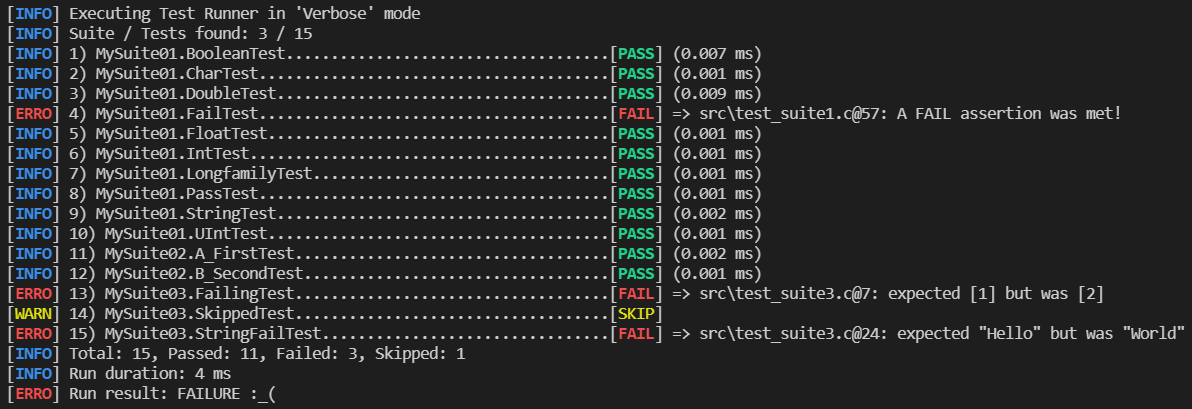
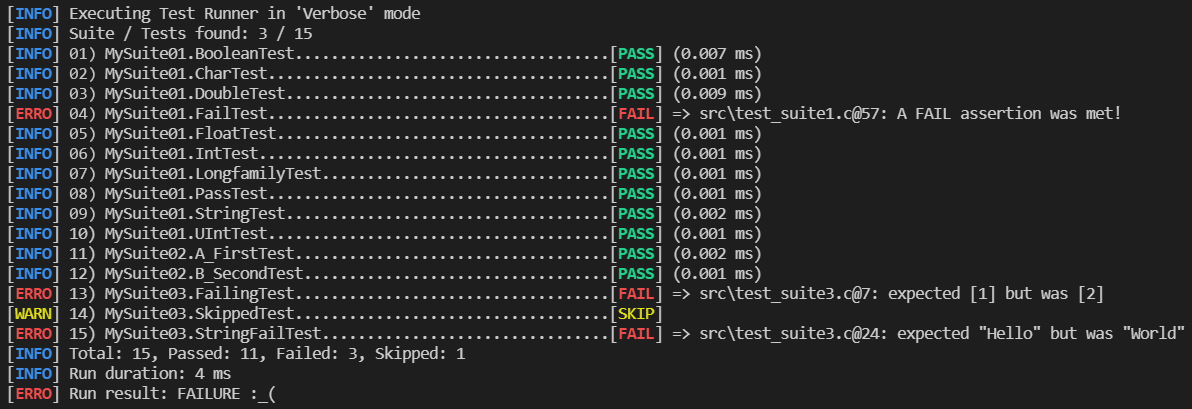
Align test counter
Fix #42

Updated screenshot

Changed region(s): [[0.0621, 0.1174, 0.2794, 0.5575]]

diff --git a/clove-unit.h b/clove-unit.h
@@ -2373,7 +2373,8 @@ void __clove_report_pretty_end(__clove_report_t* _this, size_t test_count, size_
 void __clove_report_pretty_end_test(__clove_report_t* _this, __clove_suite_t* suite, __clove_test_t* test, size_t test_number) {
     __clove_report_pretty_t* report = (__clove_report_pretty_t*)_this;
     char result[__CLOVE_STRING_LENGTH], strToPad[__CLOVE_TEST_ENTRY_LENGTH];
-    snprintf(strToPad, __CLOVE_TEST_ENTRY_LENGTH, "%zu) %s.%s", test_number, suite->name, test->name);
+    size_t max_test_number_digits = snprintf(NULL, 0, "%zu", suite->test_count);
+    snprintf(strToPad, __CLOVE_TEST_ENTRY_LENGTH, "%0*zu) %s.%s", max_test_number_digits, test_number, suite->name, test->name);
     __clove_report_pretty_pad_right(result, strToPad);
 
     if (test->result == __CLOVE_TEST_RESULT_PASSED) {
